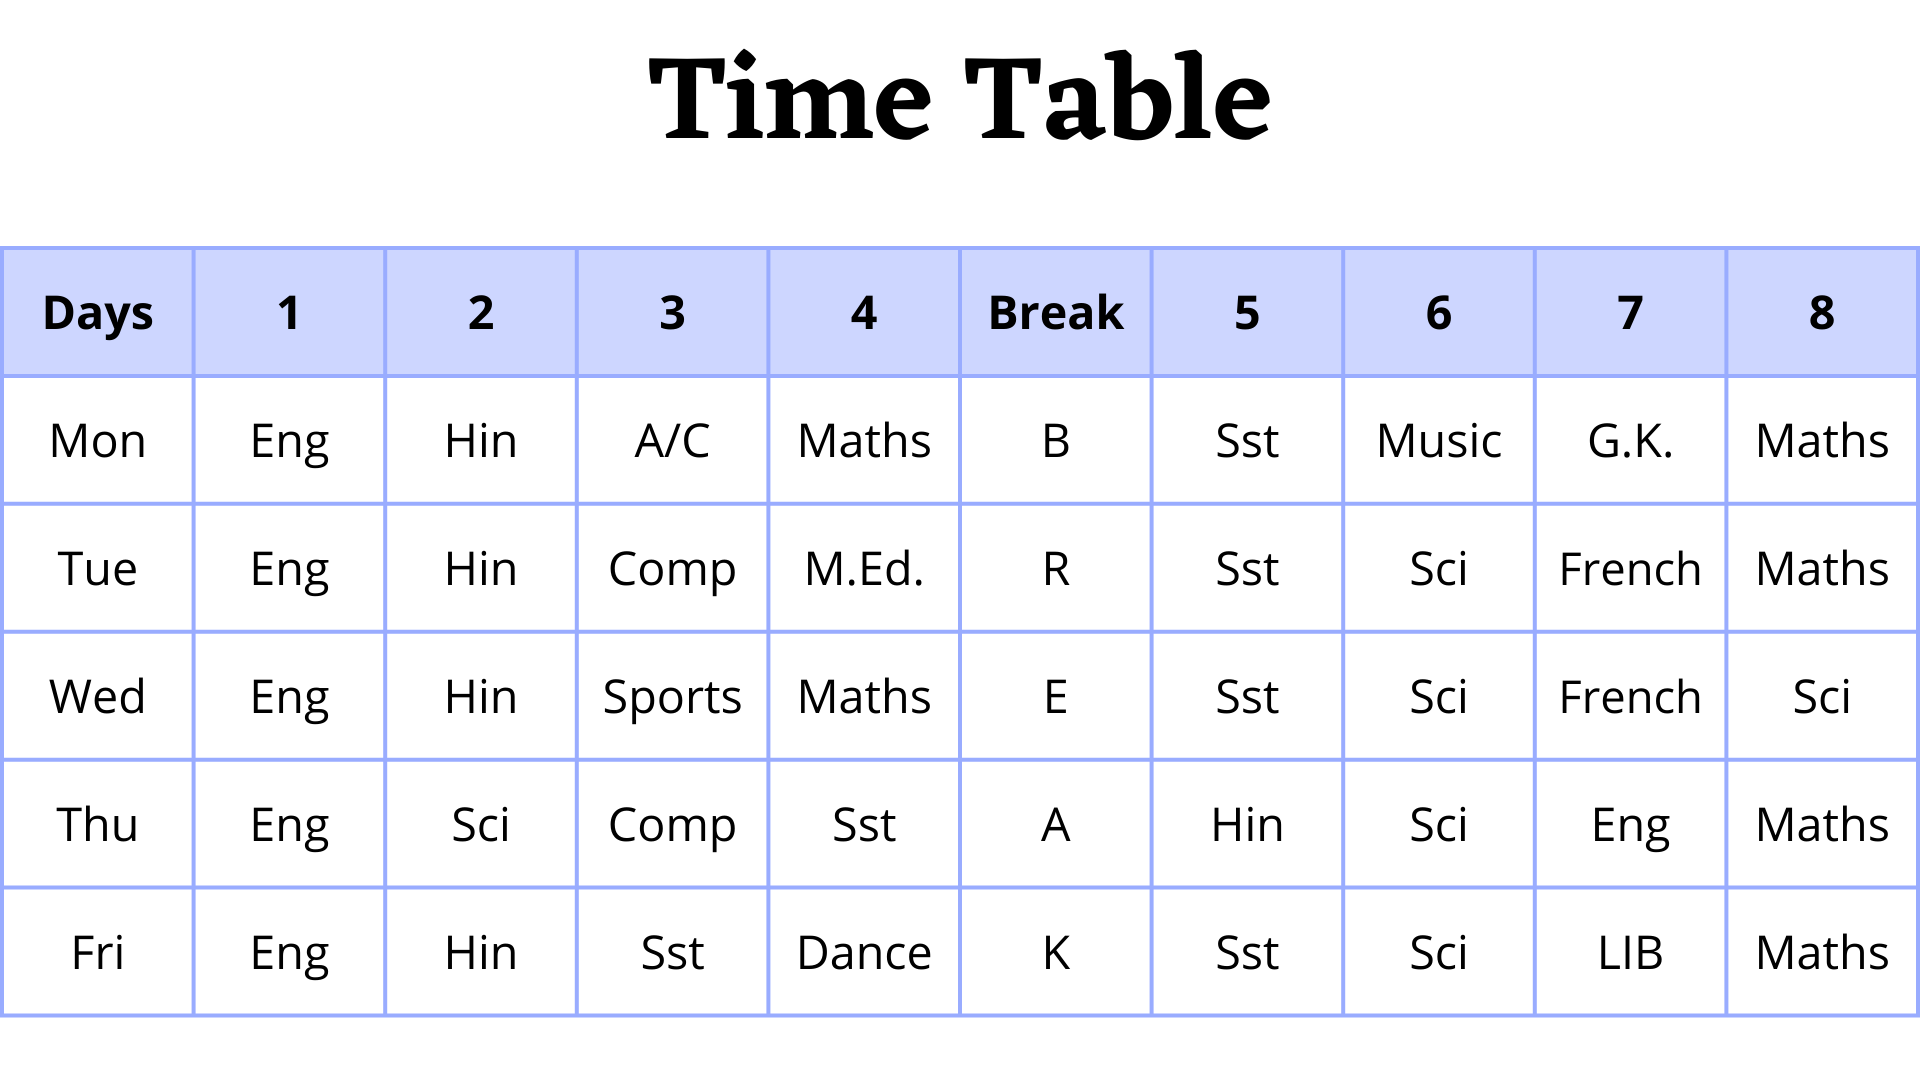
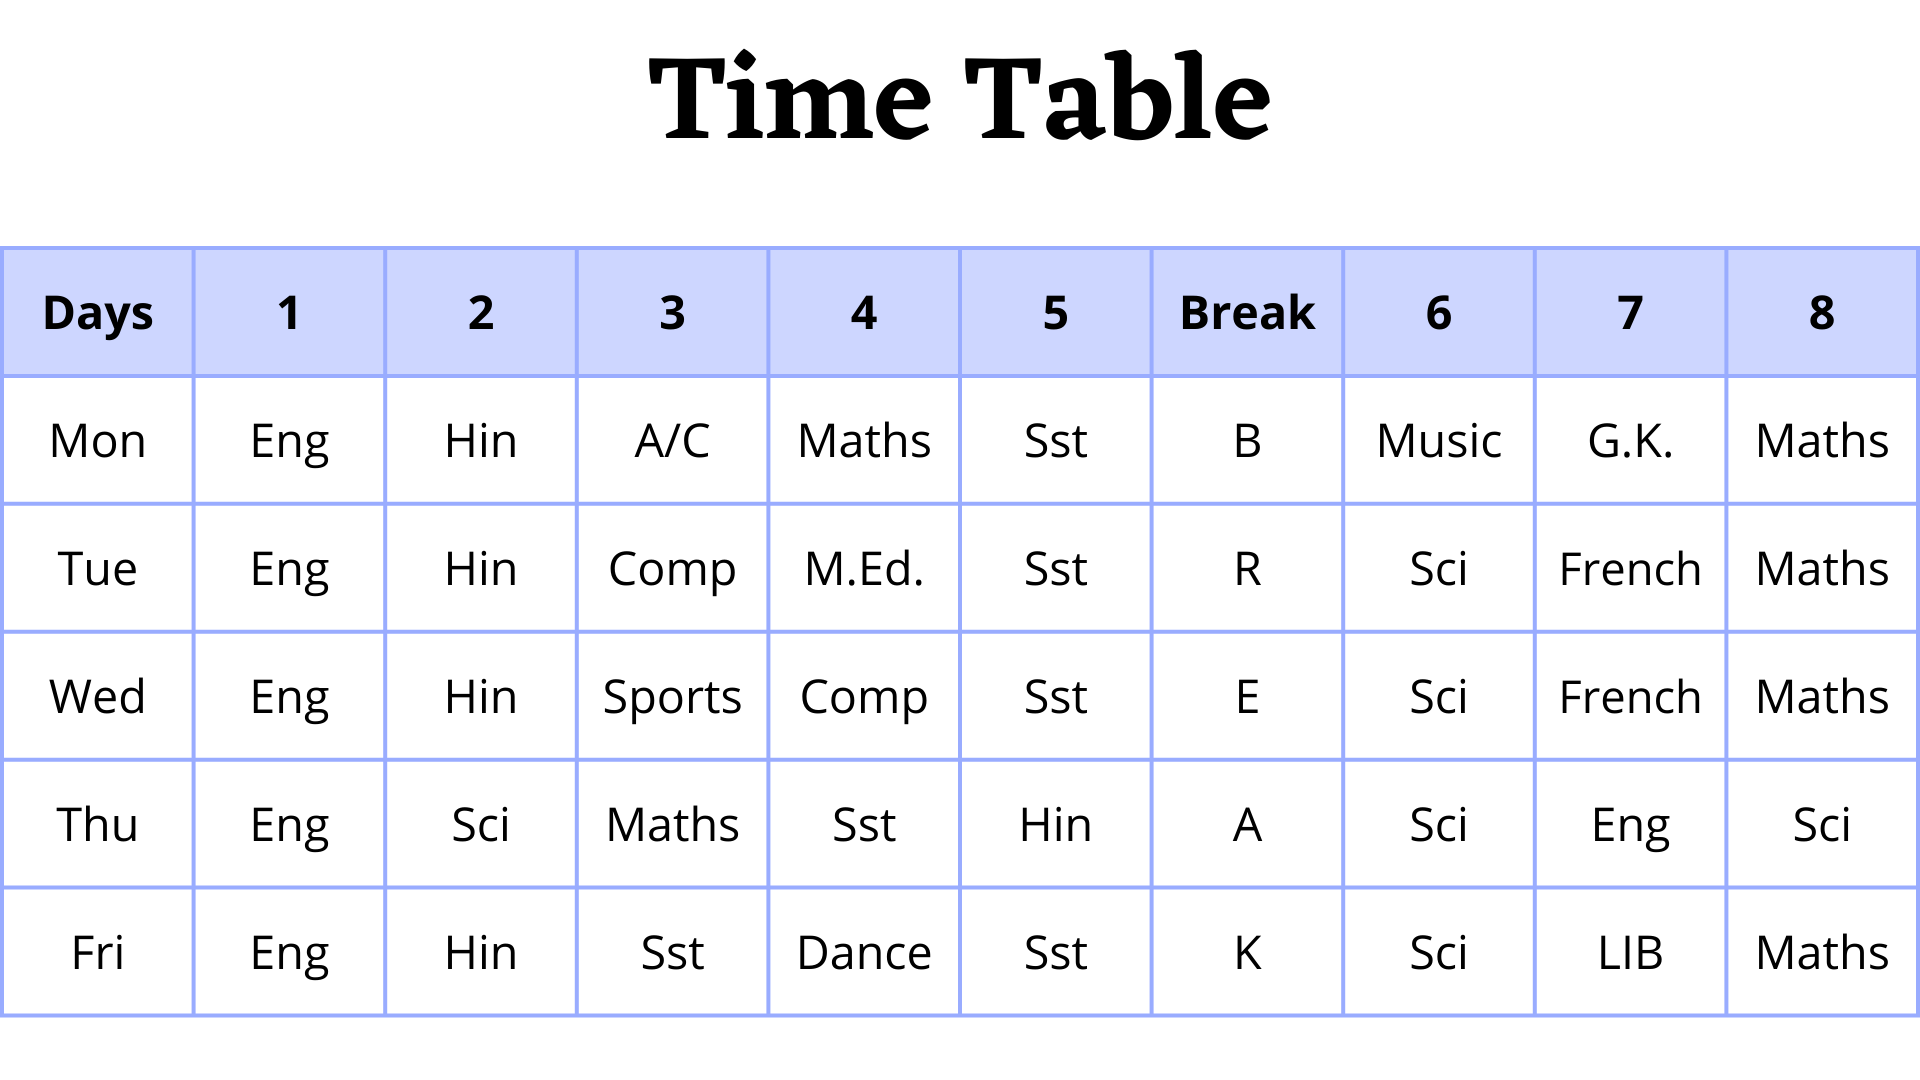
version 1.8.2 10/8/22

diff --git a/public/homework.html b/public/homework.html
@@ -105,6 +105,7 @@
   <h1>Homework</h1>
   <div class="selectingdates">
     <select name="dates" id="datesselect" id="datesselectid" onchange="datechanged()">
+      <option value="10aug2022" id="10aug2022">10/8/2022</option>
       <option value="8aug2022" id="8aug2022">8/8/2022</option>
       <option value="5aug2022" id="5aug2022">5/8/2022</option>
       <option value="4aug2022" id="4aug2022">4/8/2022</option>
@@ -1350,6 +1351,39 @@ So the Procedure of the activity goes as follows:- <br>
       <div class="homework-area"><h3 style='text-align:left;padding:8px'>
         General:-</h3><br>
         No Homework !
+        </div>
+      `;
+    }
+    else if (datesselectid == "10aug2022") {
+      hw.innerHTML = `
+      <div class="homework-area"><h3 style='text-align:left;padding:8px'>
+        English:-</h3><br>
+        No Homework !</div>
+      <div class="homework-area"><h3 style='text-align:left;padding:8px'>
+        Hindi:-</h3><br>
+        1.Read the chapter kamchor.<br>
+        2.Do the shabd/aarth given in website.</div>
+      <div class="homework-area"><h3 style='text-align:left;padding:8px'>
+        Computer:-</h3><br>
+        No Homework !</div>
+      <div class="homework-area"><h3 style='text-align:left;padding:8px'>
+        Science:-</h3><br>
+        1.Complete the question answers of science ch-5:-<br>
+        Q4)Explain three zones of candle flame with diagram.<br>
+        Q5)List the characteristics of an ideal fuel.<br>
+        Q6)Define calorific value.Compare Petrol,LPG and wood for calorific value.</div>
+      <div class="homework-area"><h3 style='text-align:left;padding:8px'>
+        Sst:-</h3><br>
+        No Homework !</div>
+      <div class="homework-area"><h3 style='text-align:left;padding:8px'>
+        Maths:-</h3><br>
+        1.Complete ch-12.</div>
+      <div class="homework-area"><h3 style='text-align:left;padding:8px'>
+        French:-</h3><br>
+        1.Do pg-39 in french notebook.</div>
+      <div class="homework-area"><h3 style='text-align:left;padding:8px'>
+        General:-</h3><br>
+        1.The time table has been changed,please check in timetable section.
         </div>
       `;
     }

diff --git a/public/classwork2.html b/public/classwork2.html
@@ -123,6 +123,7 @@
   <h1>Classwork</h1>
   <div class="selectingdates">
     <select name="dates" id="datesselect" id="datesselectid" onchange="datechanged()">
+      <option value="10aug2022" id="10aug2022">10/8/2022</option>
       <option value="8aug2022" id="8aug2022">8/8/2022</option>
       <option value="5aug2022" id="5aug2022">5/8/2022</option>
       <option value="4aug2022" id="4aug2022">4/8/2022</option>
@@ -445,6 +446,11 @@
     else if (datesselectid == "8aug2022") {
       cw.innerHTML = `
       <a href="https://drive.google.com/file/d/1Ohr39Rs21AJTvnDES9m0SoAv2QeyAaS9/view?usp=sharing" class="button button2">Go to work</a>
+      `;
+    }
+    else if (datesselectid == "10aug2022") {
+      cw.innerHTML = `
+      <a href="https://drive.google.com/file/d/1wJnR0_7pomU07K3tyz_VNcSxfTQai9ea/view?usp=sharing" class="button button2">Go to work</a>
       `;
     }
   }

diff --git a/public/classwork/hindiclasswork.html b/public/classwork/hindiclasswork.html
@@ -230,6 +230,8 @@
             class="btn effect01" target="_blank"><span>Chapter-7</span></a>
           <a href="https://drive.google.com/file/d/1tHKxoUUG3Y8NS3NEdFtvyzrfM-CH_qTE/view?usp=sharing"
             class="btn effect01" target="_blank"><span>Chapter-8</span></a>
+          <a href="https://drive.google.com/file/d/1v4dCN8suz0MDFw3mMEdS9lvN6C4IPiXF/view?usp=sharing"
+            class="btn effect01" target="_blank"><span>Chapter-10</span></a>
           <a href="https://drive.google.com/file/d/1MO6rHMIRNZxa_M9in8DHEhHp8ecTkHZf/view?usp=sharing"
             class="btn effect01" target="_blank"><span>Activity</span></a>
         </div>
@@ -262,7 +264,7 @@
         </div>
       </div>
     </div>
-    <!-- done 8/8/22 -->
+    <!-- done 10/8/22 -->
   </div>
 </body>
 <script>

diff --git a/public/classwork/generalclasswork.html b/public/classwork/generalclasswork.html
@@ -179,7 +179,7 @@
         <a href="https://drive.google.com/file/d/1k70lsjbHP_zbcAeOabZAw6x-S7rcgKLx/view?usp=sharing" class="btn effect01" target="_blank"><span>Art/Craft</span></a>
         <a href="https://drive.google.com/file/d/19d1Qs6Kfr1J6AYjJdBpgtBn_zWV2qu2B/view?usp=sharing" class="btn effect01" target="_blank"><span>UT 1 Datehseet</span></a>
       </div>
-      <!-- done 8/8/22 -->
+      <!-- done 10/8/22 -->
     </div>
   </div>
   </body>

diff --git a/public/classwork/scienceclasswork.html b/public/classwork/scienceclasswork.html
@@ -182,7 +182,7 @@
         <a href="https://drive.google.com/file/d/1x12C1QUK-7hA_BenYV9Po9P7zR2v2I_p/view?usp=sharing"
           class="btn effect01" target="_blank"><span>Science practicle file</span></a>
       </div>
-      <!-- done 8/8/22 -->
+      <!-- done 10/8/22 -->
     </div>
   </div>
 </body>

diff --git a/public/classwork/frenchclasswork.html b/public/classwork/frenchclasswork.html
@@ -177,7 +177,7 @@ flex-wrap: wrap;
       <a href="https://drive.google.com/file/d/1fWowseoKU3Vh_MvfqgZIthaK3Z_dHtlt/view?usp=sharing"
         class="btn effect01" target="_blank"><span>Holiday homework</span></a>
     </div>
-   <!-- done 8/8/22 -->
+   <!-- done 10/8/22 -->
   </div>
 </div>
 

diff --git a/public/classwork/mathsclasswork.html b/public/classwork/mathsclasswork.html
@@ -180,7 +180,7 @@ flex-wrap: wrap;
         class="btn effect01" target="_blank"><span>Chapter-12</span></a>
         </div>
     </div>
-    <!-- done 8/8/22 -->
+    <!-- done 10/8/22 -->
   </div>
 </body>
 <script>

diff --git a/public/classwork/englishclasswork.html b/public/classwork/englishclasswork.html
@@ -237,7 +237,7 @@
               class="btn effect01" target="_blank"><span>Revision</span></a>
             </div>
       </div>
-      <!-- done 8/8/22 -->
+      <!-- done 10/8/22 -->
     </div>
   </div>
  

diff --git a/public/classwork/sstclasswork.html b/public/classwork/sstclasswork.html
@@ -256,7 +256,7 @@ flex-wrap: wrap;
     <div id="Chaptername">
       
     </div>
-    <!-- done 8/8/22 -->
+    <!-- done 10/8/22 -->
   </div>
 </body>
 <script>

diff --git a/public/classwork/computerclasswork.html b/public/classwork/computerclasswork.html
@@ -172,7 +172,7 @@
     </div>
   </div>
   
-  <!-- done 8/8/22 -->
+  <!-- done 10/8/22 -->
 </div>
 
 
